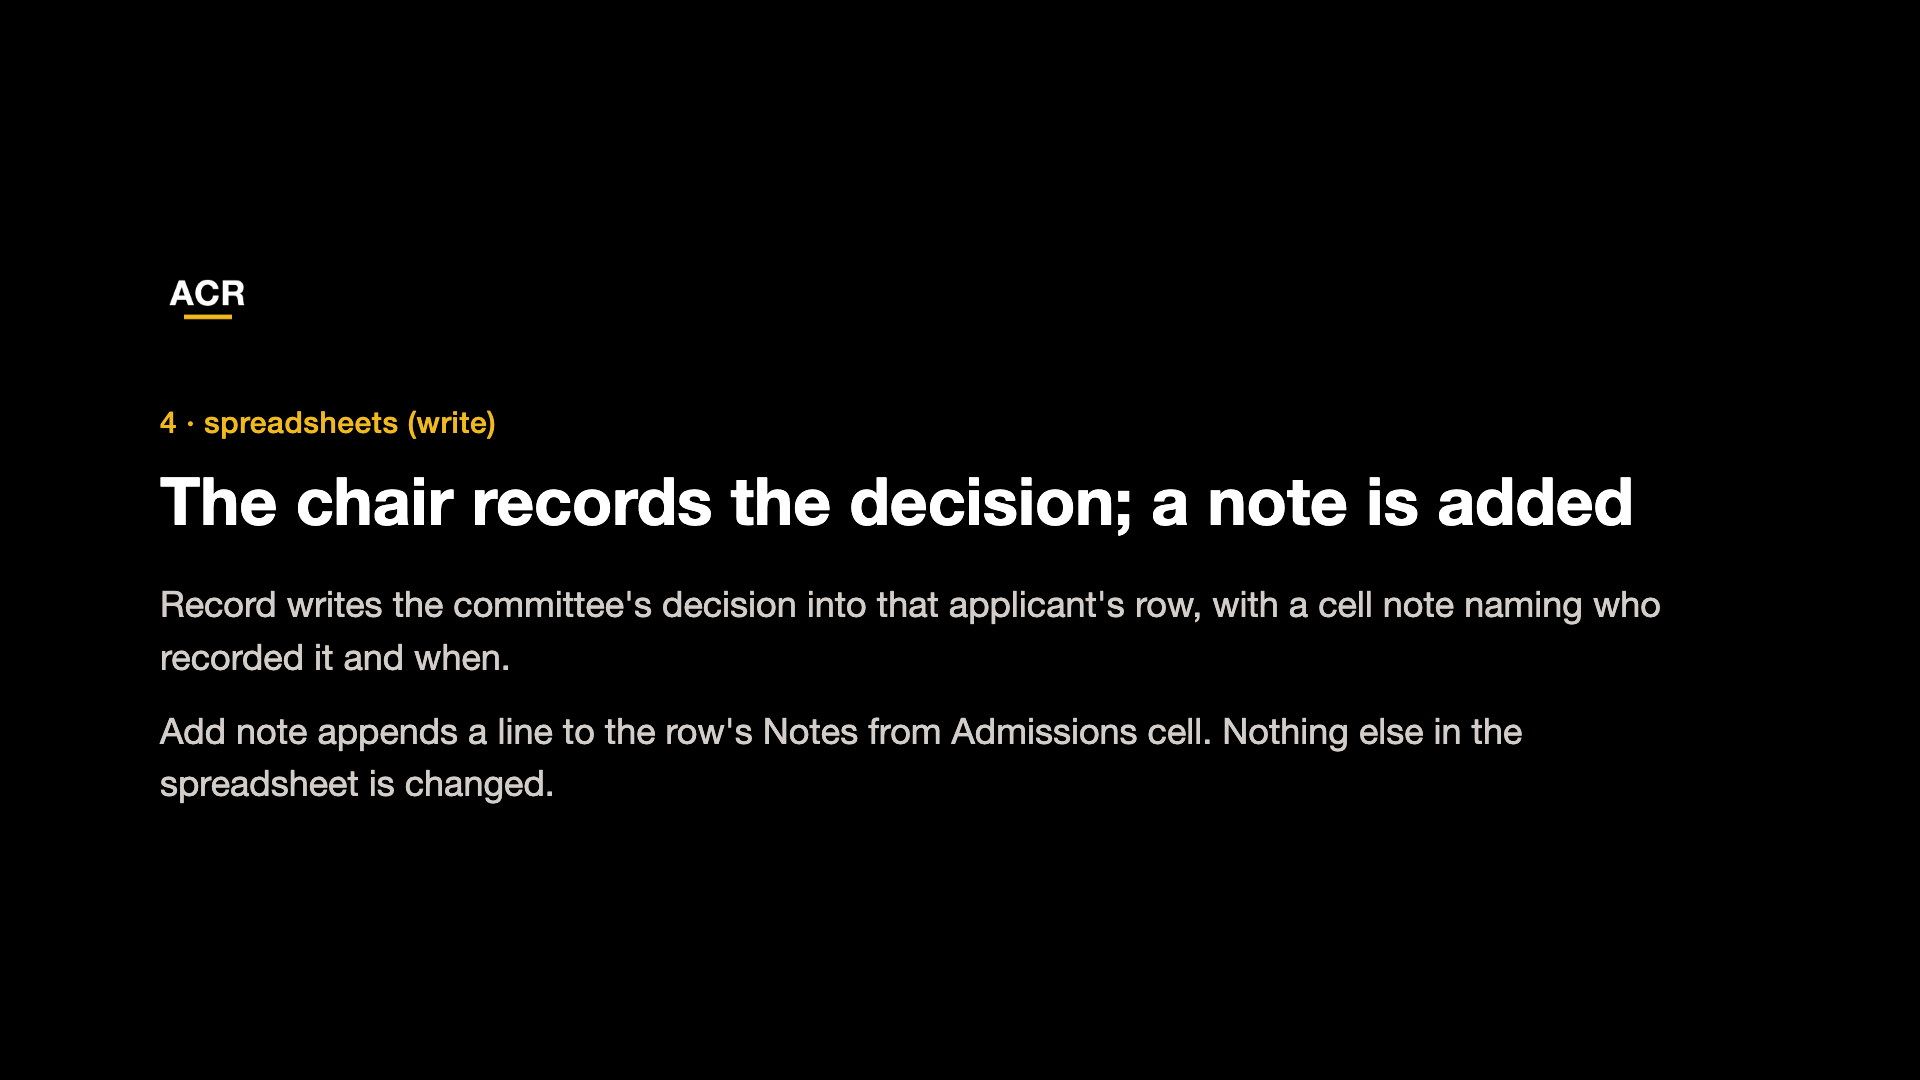
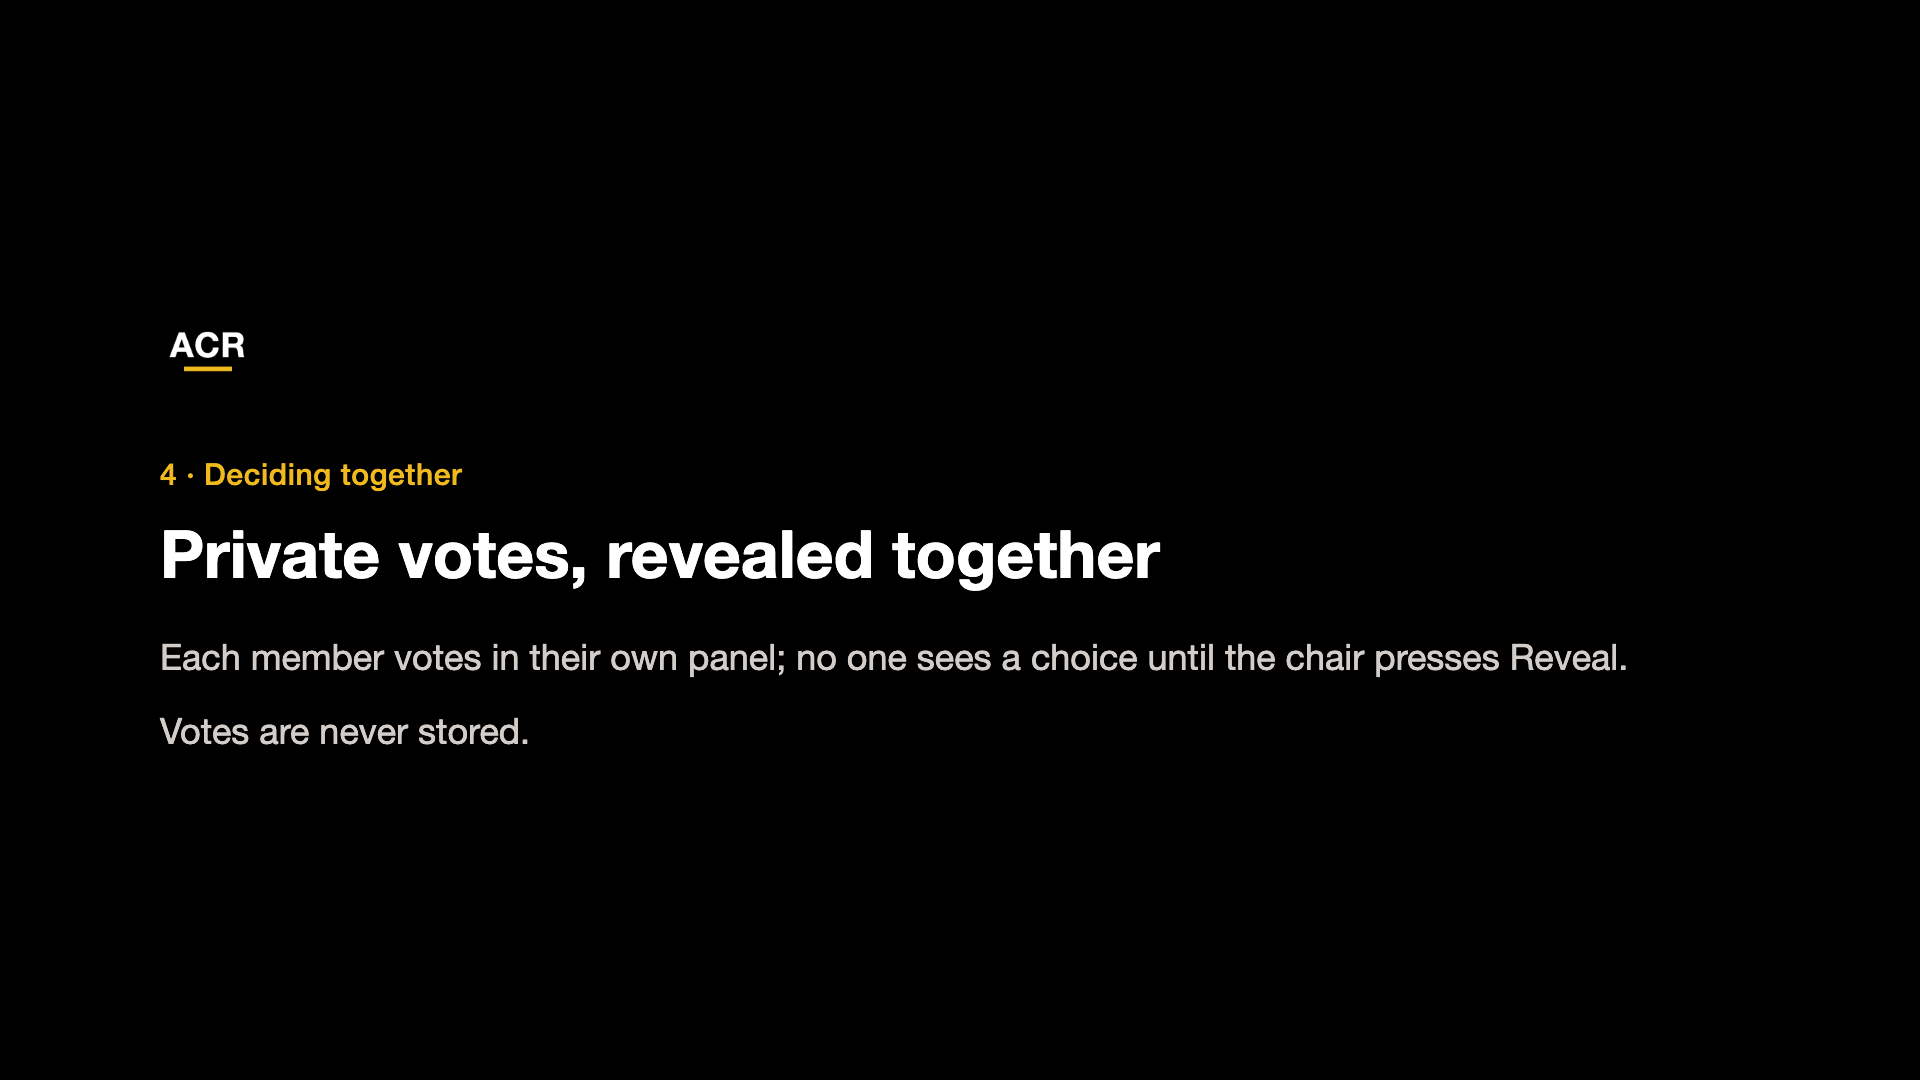
New OAuth review video (drive.file): cards, build script, reset notes; listing scopes fixed and resubmitted
Ben: "Did you record the full set of steps and create the new video to provide correctly?"

Claude-Session: https://claude.ai/code/session_01FPuSAneoj3ueBaPhZKA7ma

Changed region(s): [[0.0625, 0.4278, 0.875, 0.6417], [0.0625, 0.6722, 0.8125, 0.7639], [0.0938, 0.2444, 0.25, 0.3972]]

diff --git a/tools/meet-addon/screencast/card01.html b/tools/meet-addon/screencast/card01.html
@@ -6,4 +6,4 @@ img{width:96px;height:96px;border-radius:20px;margin-bottom:56px}
 h1{font-size:66px;font-weight:700;line-height:1.12;margin:0 0 40px;max-width:1560px}
 p,li{font-size:36px;line-height:1.45;color:#d2cdc8;max-width:1560px;margin:0 0 22px}
 ul{margin:0;padding-left:1.1em}
-</style><main><img src="mark.png" alt=""><p class="k">Google Workspace Marketplace review · project 29360684398</p><h1>ACR Helper: a Google Meet™ add-on for a committee deciding on one applicant at a time</h1><p>This video shows the whole workflow end to end, on a spreadsheet of made-up applicants labeled TEST.</p><p>Scopes requested: openid, userinfo.email, userinfo.profile, and spreadsheets. Nothing else is read from Google, and no spreadsheet data is sent to any server.</p><ul></ul></main>
+</style><main><img src="mark.png" alt=""><p class="k">OAuth verification · project 29360684398 · acr-helper</p><h1>ACR Helper: a Google Meet™ add-on for a committee deciding on one applicant at a time</h1><p>This video shows every user-facing feature end to end, on a spreadsheet of made-up applicants labeled TEST.</p><p>Scopes requested: openid, userinfo.email, userinfo.profile, and drive.file. Nothing else is read from Google, and no spreadsheet data is sent to any server.</p><ul></ul></main>

diff --git a/tools/meet-addon/screencast/card03.html b/tools/meet-addon/screencast/card03.html
@@ -6,4 +6,4 @@ img{width:96px;height:96px;border-radius:20px;margin-bottom:56px}
 h1{font-size:66px;font-weight:700;line-height:1.12;margin:0 0 40px;max-width:1560px}
 p,li{font-size:36px;line-height:1.45;color:#d2cdc8;max-width:1560px;margin:0 0 22px}
 ul{margin:0;padding-left:1.1em}
-</style><main><img src="mark.png" alt=""><p class="k">2 · spreadsheets (read)</p><h1>The panel opens the committee&#x27;s spreadsheet with the person&#x27;s own token</h1><p>It checks that this person can open the spreadsheet; someone who cannot sees only a refusal.</p><p>Start review reads the first row without a decision and shows that applicant on Meet&#x27;s main stage.</p><ul></ul></main>
+</style><main><img src="mark.png" alt=""><p class="k">2 · drive.file (the person chooses the file)</p><h1>Google&#x27;s file picker, pre-pointed at the committee&#x27;s spreadsheet</h1><p>The first time only, the person selects the committee&#x27;s spreadsheet in the Google Picker (setFileIds). ACR Helper can then open that one file and nothing else in their Drive.</p><p>The picker lists the spreadsheet only if it is shared with the person, so the spreadsheet&#x27;s own sharing decides who can use the add-on.</p><ul></ul></main>

diff --git a/tools/meet-addon/screencast/card02.html b/tools/meet-addon/screencast/card02.html
@@ -6,4 +6,4 @@ img{width:96px;height:96px;border-radius:20px;margin-bottom:56px}
 h1{font-size:66px;font-weight:700;line-height:1.12;margin:0 0 40px;max-width:1560px}
 p,li{font-size:36px;line-height:1.45;color:#d2cdc8;max-width:1560px;margin:0 0 22px}
 ul{margin:0;padding-left:1.1em}
-</style><main><img src="mark.png" alt=""><p class="k">1 · Sign in inside Meet&#x27;s side panel</p><h1>Google&#x27;s One Tap prompt, then Google&#x27;s consent screen</h1><p>openid, userinfo.email, userinfo.profile: the panel signs the person in with Google One Tap and shows their name to the committee when they vote.</p><p>spreadsheets: asked for next, in Google&#x27;s own window, so the add-on can open the committee&#x27;s spreadsheet as that person.</p><ul></ul></main>
+</style><main><img src="mark.png" alt=""><p class="k">1 · Sign in inside Meet&#x27;s side panel</p><h1>Google&#x27;s One Tap prompt, then Google&#x27;s consent screen with every scope shown</h1><p>openid, userinfo.email, userinfo.profile: sign the person in and show their name to the committee when they vote.</p><p>drive.file: see and change only the specific Google Drive files the person chooses for ACR Helper.</p><ul></ul></main>

diff --git a/tools/meet-addon/screencast/card07.html b/tools/meet-addon/screencast/card07.html
@@ -6,4 +6,4 @@ img{width:96px;height:96px;border-radius:20px;margin-bottom:56px}
 h1{font-size:66px;font-weight:700;line-height:1.12;margin:0 0 40px;max-width:1560px}
 p,li{font-size:36px;line-height:1.45;color:#d2cdc8;max-width:1560px;margin:0 0 22px}
 ul{margin:0;padding-left:1.1em}
-</style><main><img src="mark.png" alt=""><p class="k">Summary</p><h1>One spreadsheet, the person&#x27;s own permission, nothing kept elsewhere</h1><ul><li>openid, userinfo.email, userinfo.profile: sign-in, and the voter&#x27;s name</li><li>spreadsheets: read the committee&#x27;s spreadsheet; write the decision, a note, and the hidden key tab</li><li>No other spreadsheet, file, or Google data is opened</li><li>Privacy policy: bhwilkoff.github.io/ACR-Helper/privacy/</li></ul></main>
+</style><main><img src="mark.png" alt=""><p class="k">6 · The spreadsheet afterward</p><h1>What ACR Helper wrote, in the one file it can open</h1><p>The decision cell (Maybe = Waitlist) and its note, the appended line in Notes from Admissions, and a hidden tab holding the key that encrypts messages between members&#x27; add-ons.</p><ul></ul></main>

diff --git a/tools/meet-addon/screencast/card08.html b/tools/meet-addon/screencast/card08.html
@@ -1,0 +1,9 @@
+<!doctype html><meta charset="utf-8"><style>
+html,body{margin:0;width:1920px;height:1080px;background:#000;color:#fff;font-family:"Helvetica Neue",Helvetica,Arial,sans-serif}
+main{box-sizing:border-box;height:1080px;padding:110px 160px;display:flex;flex-direction:column;justify-content:center}
+img{width:96px;height:96px;border-radius:20px;margin-bottom:56px}
+.k{color:#f0b91e;font-size:30px;font-weight:500;margin:0 0 20px;letter-spacing:.02em}
+h1{font-size:66px;font-weight:700;line-height:1.12;margin:0 0 40px;max-width:1560px}
+p,li{font-size:36px;line-height:1.45;color:#d2cdc8;max-width:1560px;margin:0 0 22px}
+ul{margin:0;padding-left:1.1em}
+</style><main><img src="mark.png" alt=""><p class="k">Summary</p><h1>One chosen file, the person&#x27;s own permission, nothing kept elsewhere</h1><ul><li>openid, userinfo.email, userinfo.profile: sign-in, and the voter&#x27;s name</li><li>drive.file: read the chosen spreadsheet; write the decision, a note, and the hidden key tab</li><li>No other file or Google data is opened</li><li>Privacy policy: acr.humanshaped.org/privacy/</li></ul></main>

diff --git a/tools/meet-addon/screencast/card06.html b/tools/meet-addon/screencast/card06.html
@@ -6,4 +6,4 @@ img{width:96px;height:96px;border-radius:20px;margin-bottom:56px}
 h1{font-size:66px;font-weight:700;line-height:1.12;margin:0 0 40px;max-width:1560px}
 p,li{font-size:36px;line-height:1.45;color:#d2cdc8;max-width:1560px;margin:0 0 22px}
 ul{margin:0;padding-left:1.1em}
-</style><main><img src="mark.png" alt=""><p class="k">5 · The spreadsheet afterward</p><h1>What ACR Helper wrote</h1><p>The decision cell (Maybe = Waitlist) and its note, the appended line in Notes from Admissions, and a hidden tab holding the key that encrypts messages between members&#x27; add-ons.</p><ul></ul></main>
+</style><main><img src="mark.png" alt=""><p class="k">5 · drive.file (write)</p><h1>The chair records the decision; a note is added</h1><p>Record writes the committee&#x27;s decision into that applicant&#x27;s row, with a cell note naming who recorded it and when.</p><p>Add note appends a line to the row&#x27;s Notes from Admissions cell. Nothing else is changed.</p><ul></ul></main>

diff --git a/tools/meet-addon/screencast/card05.html b/tools/meet-addon/screencast/card05.html
@@ -6,4 +6,4 @@ img{width:96px;height:96px;border-radius:20px;margin-bottom:56px}
 h1{font-size:66px;font-weight:700;line-height:1.12;margin:0 0 40px;max-width:1560px}
 p,li{font-size:36px;line-height:1.45;color:#d2cdc8;max-width:1560px;margin:0 0 22px}
 ul{margin:0;padding-left:1.1em}
-</style><main><img src="mark.png" alt=""><p class="k">4 · spreadsheets (write)</p><h1>The chair records the decision; a note is added</h1><p>Record writes the committee&#x27;s decision into that applicant&#x27;s row, with a cell note naming who recorded it and when.</p><p>Add note appends a line to the row&#x27;s Notes from Admissions cell. Nothing else in the spreadsheet is changed.</p><ul></ul></main>
+</style><main><img src="mark.png" alt=""><p class="k">4 · Deciding together</p><h1>Private votes, revealed together</h1><p>Each member votes in their own panel; no one sees a choice until the chair presses Reveal.</p><p>Votes are never stored.</p><ul></ul></main>

diff --git a/tools/meet-addon/screencast/card04.html b/tools/meet-addon/screencast/card04.html
@@ -6,4 +6,4 @@ img{width:96px;height:96px;border-radius:20px;margin-bottom:56px}
 h1{font-size:66px;font-weight:700;line-height:1.12;margin:0 0 40px;max-width:1560px}
 p,li{font-size:36px;line-height:1.45;color:#d2cdc8;max-width:1560px;margin:0 0 22px}
 ul{margin:0;padding-left:1.1em}
-</style><main><img src="mark.png" alt=""><p class="k">3 · Deciding together</p><h1>Private votes, revealed together</h1><p>Each member votes in their own panel; no one sees a choice until the chair presses Reveal.</p><p>Votes are never stored.</p><ul></ul></main>
+</style><main><img src="mark.png" alt=""><p class="k">3 · drive.file (read)</p><h1>The panel opens the chosen spreadsheet with the person&#x27;s own token</h1><p>Start review reads the first row without a decision and shows that applicant on Meet&#x27;s main stage.</p><ul></ul></main>

diff --git a/tools/meet-addon/screencast/tighten.py b/tools/meet-addon/screencast/tighten.py
@@ -2,7 +2,7 @@
 # screencast/tighten.py). Longer holds where Google's screens must be read.
 import subprocess, re, sys
 O = sys.argv[1]
-HOLDS = {'v3': 5, 'v1b': 4, 'v5': 4, 'v4c': 3.5}
+HOLDS = {'v3': 5, 'v1b': 4, 'v5': 4, 'v6c': 3.5, 'v7': 4}
 def dur(f): return float(subprocess.run(['ffprobe','-v','error','-show_entries','format=duration','-of','csv=p=0',f],capture_output=True,text=True).stdout)
 for name in sys.argv[2:]:
     HOLD = HOLDS.get(name, 2.5)

diff --git a/tools/meet-addon/VERIFICATION-REPLY.md b/tools/meet-addon/VERIFICATION-REPLY.md
@@ -11,7 +11,7 @@ OAuth Verification Request Acknowledgement", project acr-helper
 |---|---|---|
 | 1 | Use the narrower `drive.file` scope instead of `spreadsheets`, or justify why not (Option 1 / Option 2) | **Option 1.** v0.6.0 asks only for `drive.file openid email profile`. The first time a person opens the add-on, Google's Picker (pre-pointed at the committee's sheet with `setFileIds`) asks them to choose it once. Measured Nov 23 with a `drive.file`-only token: the Sheets API returned 404 for the TEST sheet before the pick and 200 after, hidden `_acr` tab included. No API key needed. |
 | 2 | Privacy policy must state data protection mechanisms for sensitive data | New section "How sensitive data is protected" on https://acr.humanshaped.org/privacy/ (no copies, TLS + AES-256-GCM end to end, ECDH-sealed votes, Google-enforced access on every request, least access via drive.file, memory-only tokens, strict CSP and no trackers, nothing retained, how to report a problem). |
-| 3 | New demo video: consent screen with every scope expanded, scopes matching the console, the scopes' full use | Needed only if a sensitive scope remains. With Option 1 every scope is non-sensitive, so Google should close the sensitive-scope review; a new video is ready to record if they still ask (shot list below). |
+| 3 | New demo video: consent screen with every scope expanded, scopes matching the console, the scopes' full use | Made and uploaded Nov 23: youtu.be/hFSTPAD5ikQ (SCREENCAST.md). Originally judged needed only if a sensitive scope remains. With Option 1 every scope is non-sensitive, so Google should close the sensitive-scope review; a new video is ready to record if they still ask (shot list below). |
 | 4 | Test credentials and step-by-step instructions | Reviewer steps below. Needs Ben's choice on how a reviewer reaches the TEST sheet. |
 
 ## Console changes (done by the agent, Nov 23, read back after reload)
@@ -24,7 +24,7 @@ OAuth Verification Request Acknowledgement", project acr-helper
 - Verification Center now reads: "Verification is not required since your
   app is not requesting any sensitive or restricted scopes." Branding
   still verified and shown.
-- **Not done, locked:** Marketplace SDK > App Configuration > OAuth Scopes
+- **Done Nov 23 (Ben approved):** listing review cancelled, App Configuration Scope 3 changed to drive.file (read back after reload), listing resubmitted ("Review submitted"). Before that it was locked: Marketplace SDK > App Configuration > OAuth Scopes
   still lists `spreadsheets` as Scope 3. Save Draft is disabled while the
   store listing is in review. Change Scope 3 to
   `https://www.googleapis.com/auth/drive.file` as soon as it unlocks

diff --git a/tools/meet-addon/SCREENCAST.md b/tools/meet-addon/SCREENCAST.md
@@ -1,3 +1,26 @@
+# Review video (drive.file), 2026-11-23
+
+**Uploaded:** youtu.be/hFSTPAD5ikQ, Unlisted, "ACR Helper: Google Meet add-on,
+OAuth review (drive.file)", on Ben's channel (benwilkoff@gmail.com), 3:24.
+Built with `screencast/build.sh <clips> <work>` from eight window clips
+(s1-signin, s1b-confirm, s2-openreview, s3-consent, s4-choose, s5-pick,
+s6-review, s7-sheet) and cards 01-08 (`cards.json`, `make.py`). Call
+xgw-gwmt-ccf / sgz-pwwt-nky hosted by benwilkoff@gmail.com, TEST-0010.
+
+How to reset so the consent screen and the picker appear on camera:
+- myaccount.google.com/connections > ACR Helper > Delete all, for **every**
+  account in that Chrome profile (One Tap auto-picks the only account that
+  still has a grant).
+- drive.google.com/drive/settings > Manage apps > ACR Helper > Disconnect
+  from Drive. "Delete all" alone keeps the drive.file per-file grant.
+- Start recording a pop-up window ~2.5 s after it appears; starting at once
+  crashed the recorder ("connection being interrupted").
+- Compile the recorder with `swiftc -O -parse-as-library`.
+- Picker rows cannot be selected through Accessibility; a person clicks.
+- One Tap's chooser shows the second account; build.sh blurs that line.
+
+---
+
 # Review video, shot by shot (2026-11-19)
 
 *Made by Claude the way Human Shaped's was (humanshaped-site/tools/meet-addon/SCREENCAST.md).*

diff --git a/SCRATCHPAD.md b/SCRATCHPAD.md
@@ -12,9 +12,10 @@
   one-time Picker window (decision 014); console Data Access changed and
   the Verification Center now says verification is not required. Privacy
   policy has "How sensitive data is protected". **Waiting on Ben**: send
-  the reply in tools/meet-addon/VERIFICATION-REPLY.md; Marketplace App
-  Configuration still lists `spreadsheets` (locked while the listing is in
-  review).
+  the Gmail draft (ben.wilkoff@minerva.edu, Google's thread; includes the
+  new video youtu.be/hFSTPAD5ikQ and reviewer steps). Listing scopes fixed
+  and resubmitted Nov 23. ACR Helper grants removed from both Ben accounts
+  for the video: each sees consent (and gmail the picker) next time.
 - **Run locally**: `python3 -m http.server 8080`, open
   `http://localhost:8080/tools/dev/` (add `?diag=1`). Tests:
   `node --test tests/*.test.js`.
